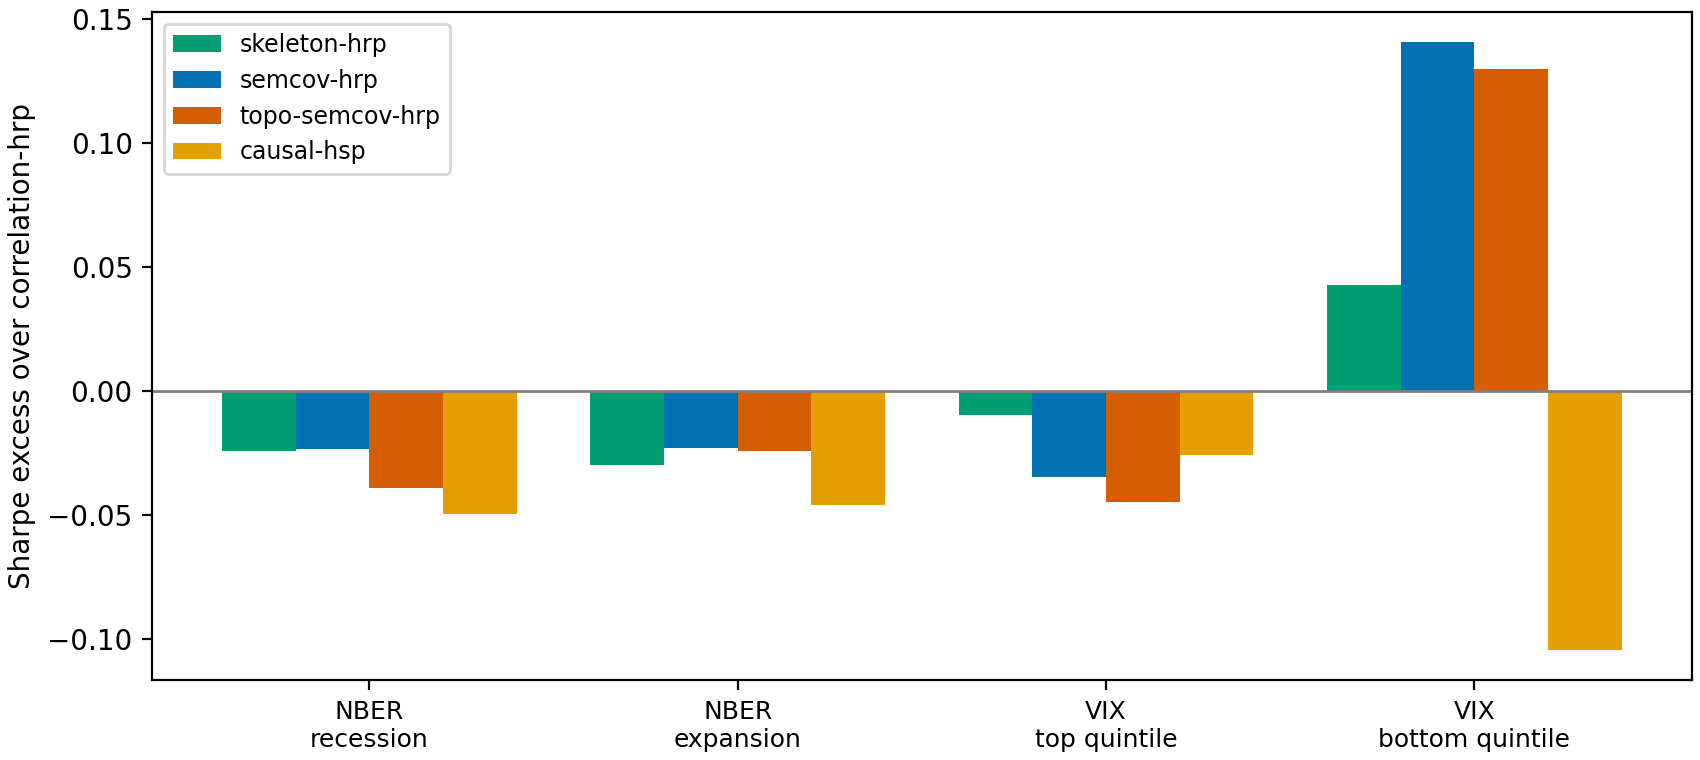
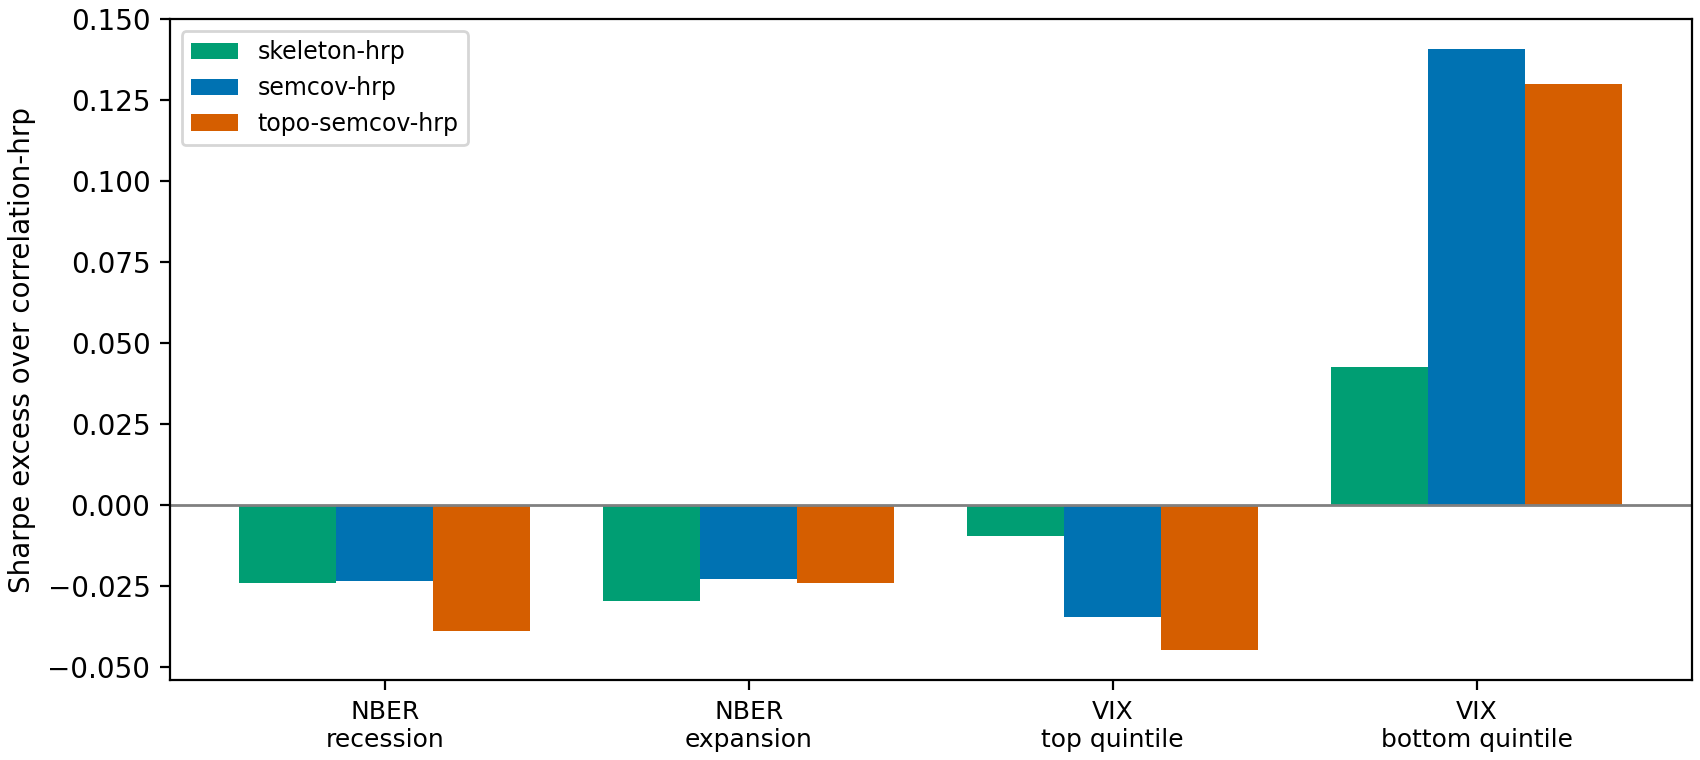
docs(figures): drop the closed-loop arm from the Phase II regime figure
The figure compares the graph-fed allocators, and the closed-loop series
belongs to the first phase, so it did not share the comparison.

diff --git a/scripts/plot_phase_ii_figures.py b/scripts/plot_phase_ii_figures.py
@@ -1,8 +1,8 @@
-"""Phase-II figure set (F1-F7): oriented-allocator results.
+"""Phase II figure set (F1 to F7) for the direction-aware allocator results.
 
-Regenerated entirely from committed artefacts so the figures always match
-FINDINGS.md. Saved to results/figures/. Window sets come from the matrix
-CSV, so the same code renders two-window and four-window grids.
+I regenerate every figure from committed files so that the figures always
+match FINDINGS.md. They are saved to results/figures/. The window sets come
+from the matrix CSV, so the same code draws 2-window and 4-window grids.
 
 Run order: collate_phase_ii, regime_analysis, then this script.
 Run:  python -m scripts.plot_phase_ii_figures
@@ -35,11 +35,12 @@ C = {
     "w378": "#CC79A7",
     "w504": "#D55E00",
 }
-# The reported family. D3/D4 were run but fall outside the crossing.
+# The reported family. D3 and D4 were run but are outside the crossing.
 ALLOC_ORDER = ["D0", "D0s", "D1", "D2", "D2s"]
 
-# Report display names; CSV tags stay D0/D0s/D1/D2/D2s. Mirrors the \corrhrp,
-# \skelhrp, ... macros in final_report/main.tex; keep the two in step.
+# Display names for the report. The CSV tags stay D0, D0s, D1, D2 and D2s.
+# These match the \corrhrp, \skelhrp, ... macros in final_report/main.tex,
+# so keep the two in step.
 DISPLAY = {"D0": "skeleton-hrp", "D0s": "undirected-hrp", "D1": "semcov-hrp",
            "D2": "topo-hrp", "D2s": "topo-semcov-hrp", "CORR-HRP": "correlation-hrp",
            "V0": "hsp-baseline", "V1": "causal-hsp",
@@ -48,7 +49,7 @@ METHOD_LABEL = {"dynotears": "DYNOTEARS", "varlingam": "VARLiNGAM", "granger": "
 
 
 def _windows(matrix: pd.DataFrame) -> list[int]:
-    """Windows with at least one DYNOTEARS Phase-II cell, ascending."""
+    """Return the windows with at least 1 DYNOTEARS Phase II cell, ascending."""
     m = matrix[matrix.method == "dynotears"]
     return sorted(int(w) for w in m.window.unique())
 
@@ -86,7 +87,7 @@ def f1_heatmap(matrix: pd.DataFrame) -> None:
                 if np.isfinite(vals[i, j]):
                     ax.text(j, i, f"{vals[i, j]:.3f}", ha="center", va="center",
                             fontsize=8.5)
-        # Box the D0 (symmetrised control) column.
+        # Draw a box around the D0 column (the symmetrised control).
         j0 = ALLOC_ORDER.index("D0")
         ax.add_patch(plt.Rectangle((j0 - 0.5, -0.5), 1, len(methods), fill=False,
                                    edgecolor="black", lw=2))
@@ -131,7 +132,7 @@ def f2_forest(contrasts: pd.DataFrame) -> None:
         ax.set_yticks(range(len(allocs)), [DISPLAY[a] for a in allocs], fontsize=8)
         ax.set_title(METHOD_LABEL[m], fontsize=10)
         ax.set_xlabel("ΔSharpe vs skeleton control skeleton-hrp")
-        # Legend goes upper left; lower right holds the D0s/w189 star.
+        # The legend goes in the upper left, because the lower right holds the D0s w189 star.
         ax.margins(y=0.14)
         ax.legend(loc="upper left", fontsize=8, framealpha=0.9)
     fig.savefig(FIG / "phase_ii_forest.png", dpi=200)
@@ -173,7 +174,7 @@ def f4_seed(matrix: pd.DataFrame) -> None:
     committed = float(audit.loc[audit.seed == 0, "sharpe"].iloc[0])
     ax.annotate("committed value\n(seed 0)", (0.09, committed),
                 fontsize=8, color="#444444", va="center")
-    # D-variants are deterministic: single points, no seed variance.
+    # The D-variants are deterministic, so they are single points with no seed variance.
     m = matrix[(matrix.method == "dynotears") & (matrix.window == 252)]
     for k, (a, color) in enumerate((("D0", C["D0"]), ("D1", C["D1"]), ("D2s", C["D2s"]))):
         val = float(m.loc[m.allocator == a, "sharpe"].iloc[0])
@@ -202,9 +203,10 @@ def f5_regime() -> None:
     regimes = ["nber_recession", "nber_expansion", "high_vol", "low_vol"]
     df = df[df.regime.isin(regimes)]
     base = df[df.variant == "CORR-HRP"].set_index("regime")["sharpe"]
+    # The three DYNOTEARS allocators of the decomposition only; the first-phase
+    # causal-hsp series is appendix material and is not plotted here.
     show = [("V0prime", "skeleton-hrp", C["D0"]), ("DYNO-D1", "semcov-hrp", C["D1"]),
-            ("DYNO-D2s", "topo-semcov-hrp", C["D2s"]),
-            ("V1-DYNOTEARS", "causal-hsp", C["V1"])]
+            ("DYNO-D2s", "topo-semcov-hrp", C["D2s"])]
     fig, ax = plt.subplots(figsize=(8.5, 3.8), constrained_layout=True)
     width = 0.8 / len(show)
     xs = np.arange(len(regimes))
@@ -224,7 +226,8 @@ def f5_regime() -> None:
 
 # F6: the decomposition
 def f6_decomposition(matrix: pd.DataFrame, contrasts: pd.DataFrame) -> None:
-    """Net Sharpe of CORR, D0, D1/D2s with bootstrap deltas on each step."""
+    """Plot the net Sharpe of CORR, D0, D1 and D2s with the bootstrap
+    difference at each step."""
     def sharpe(method, alloc, w):
         m = matrix[(matrix.method == method) & (matrix.allocator == alloc)
                    & (matrix.window == w)]
@@ -252,7 +255,7 @@ def f6_decomposition(matrix: pd.DataFrame, contrasts: pd.DataFrame) -> None:
     axes = np.atleast_1d(axes).ravel()
     for ax in axes[len(ws):]:
         ax.set_visible(False)
-    # Each bar's step relative to its reference (CORR for D0; D0 for D1/D2s).
+    # Each bar's step relative to its reference (CORR for D0, and D0 for D1 and D2s).
     steps = {1: ("D0-CORR", "+ skeleton"), 2: ("D1-D0", "+ orientation"),
              3: ("D2s-D0", "+ orientation")}
     for ax, w in zip(axes, ws):
@@ -281,7 +284,7 @@ def f6_decomposition(matrix: pd.DataFrame, contrasts: pd.DataFrame) -> None:
 
 # F7: skeleton vs orientation additions across estimation horizons
 def f7_window_gradient(contrasts: pd.DataFrame) -> None:
-    """The decomposition as a function of estimation-window length."""
+    """Plot the decomposition as a function of the estimation-window length."""
     def series(name: str, method: str):
         c = contrasts[(contrasts.contrast == name) & (contrasts.method == method)]
         c = c.sort_values("window")
@@ -312,7 +315,7 @@ def f7_window_gradient(contrasts: pd.DataFrame) -> None:
     ax.set_ylabel("ΔSharpe added")
     ax.legend(fontsize=8.5)
 
-    # Right panel: stacked additions, the split of the total gain.
+    # The right panel stacks the 2 additions, which is the split of the total gain.
     wsx = np.arange(len(skel[0]))
     width = 0.55
     axr.bar(wsx, skel[1], width, color=C["D0"], label="skeleton")
